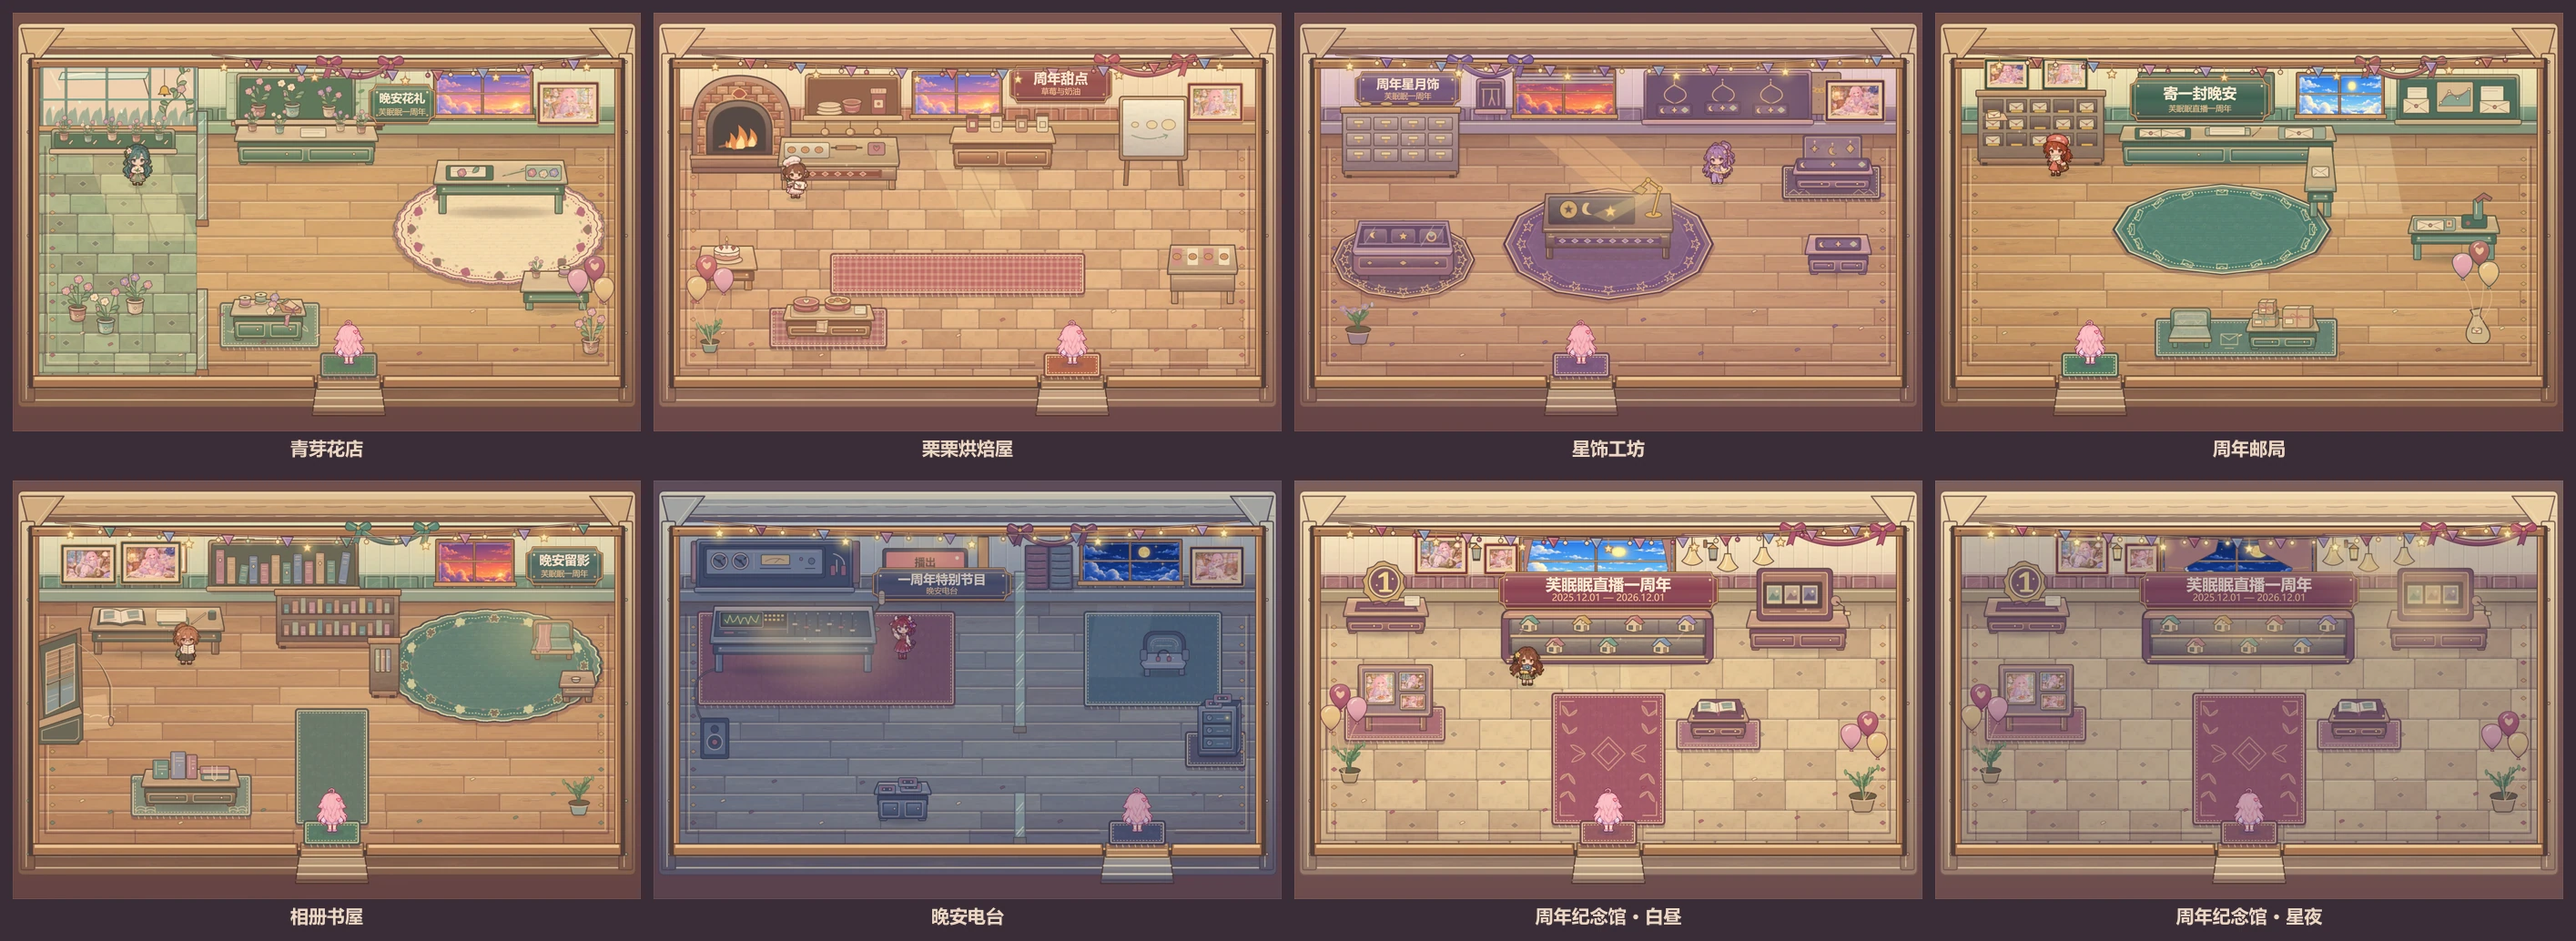
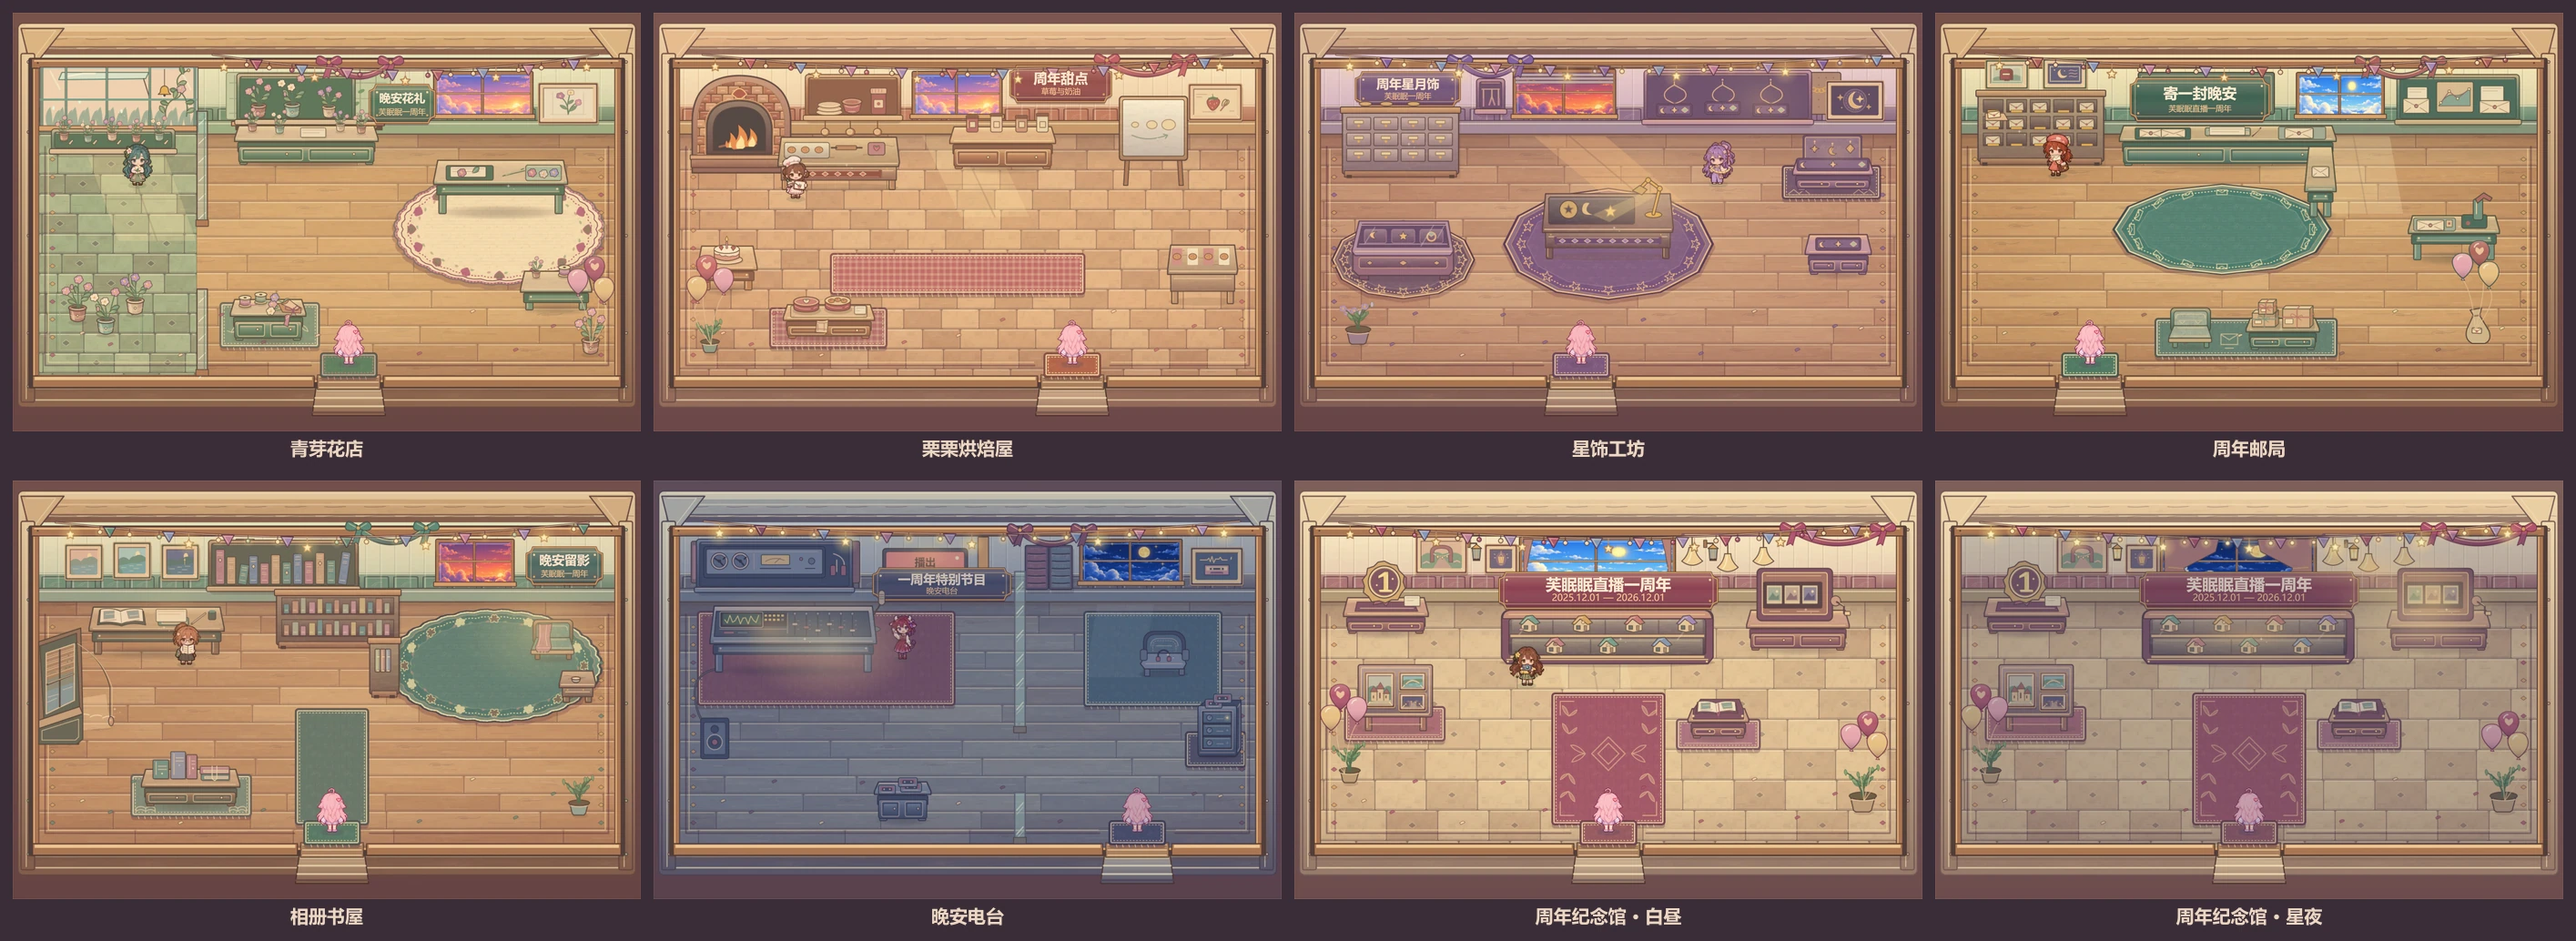
用主题插画替换小镇室内的相册照片

diff --git a/doc/artwork/ARTWORK-town-interiors.md b/doc/artwork/ARTWORK-town-interiors.md
@@ -2,7 +2,7 @@
 
 七间屋子全天开放。芙芙可以在花店借一片落花，在邮局给自己盖一枚月牙邮戳，也可以第一次上北坡就进纪念馆。做好的小物收进背包的 **纪念物 → 小镇小物**。纪念馆北墙的双层展柜会记下每件小物来自哪扇门。
 
-下图取自游戏画布。木纹与布纹取自晚安小屋的原画，陶砖和浅石板使用周年小镇铺石的笔触。房梁、家具的明暗面和黄昏点亮的星星灯串也沿用小屋的画法。花店的釉面花盆与压花台、烘焙屋的单层草莓蛋糕、工坊的成品柜和邮局的月牙火漆信，各自沿用房间配色。书屋把池景收进西墙窗格，电台以靛蓝和莓红绘制设备与坐具，纪念馆用同一套胡桃木色画影箱柜与双层展柜。墙上挂着芙眠眠的晨光、阅读、抱狐狸和弹贝斯相册画。
+下图取自游戏画布。木纹与布纹取自晚安小屋的原画，陶砖和浅石板使用周年小镇铺石的笔触。房梁、家具的明暗面和黄昏点亮的星星灯串也沿用小屋的画法。花店的釉面花盆与压花台、烘焙屋的单层草莓蛋糕、工坊的成品柜和邮局的月牙火漆信，各自沿用房间配色。书屋把池景收进西墙窗格，电台以靛蓝和莓红绘制设备与坐具，纪念馆用同一套胡桃木色画影箱柜与双层展柜。各屋的墙画依次画着洋桔梗、草莓配方、铜色星月、纪念邮票、池景、晚安磁带和周年花拱与街灯。
 
 [![游戏内七间室内的直播一周年庆典布置，含纪念馆的白昼和星夜。](town-interiors/interiors-in-game.webp)](town-interiors/interiors-in-game.webp)
 
@@ -134,13 +134,13 @@
 
 [![周年纪念馆黄昏草图，北墙双层展柜陈列七栋模型，中央是通道，东北角有手摇影箱。](town-interiors/hall.svg)](town-interiors/hall.svg)
 
-红瓦色展帘下挂着筹备时的速写。暖栗以摄影来宾的身份在这里选片、挂照片。正门所在位置落在现有建筑碰撞内，入口设在**馆东石阶上平台**。从北街沿石阶上去，在侧门牌前进馆，出馆回到同一级平台。
+红瓦色展帘下挂着周年花拱和街灯的插画。暖栗以摄影来宾的身份在这里整理街景展览。正门所在位置落在现有建筑碰撞内，入口设在**馆东石阶上平台**。从北街沿石阶上去，在侧门牌前进馆，出馆回到同一级平台。
 
-展厅两侧各留一处观看点。左边的相片架装裱晨光、阅读和贝斯相片，右边的小展台托着摊开的周年册。两处陈设之间的地毯直通七屋展柜。
+展厅两侧各留一处观看点。左边的街景展架装裱红瓦街口、临池石桥和灯下广场的插画，右边的小展台托着摊开的周年册。两处陈设之间的地毯直通七屋展柜。
 
 **① 手摇影箱 · 亮灯夜票根**　摇动手柄，依次看见空广场、挂上彩旗、街灯初亮三格速写。转完一圈，从箱侧取票根。把纪念馆作为第一站也能收下它。
 
-**② 七屋纪念展柜**　展柜贴北墙放置，门垫前的地毯通向柜前。上层从西往东依次是花店、烘焙屋、纪念馆和工坊，下层依次是邮局、相册书屋和电台。暖栗白昼站在展柜西侧选片。清晨展帘半开，白昼整扇高窗透光，黄昏先亮照片墙的灯，星夜再亮影箱内灯。模型窗口依据已收下的物品点亮，四个时段都可查看。
+**② 七屋纪念展柜**　展柜贴北墙放置，门垫前的地毯通向柜前。上层从西往东依次是花店、烘焙屋、纪念馆和工坊，下层依次是邮局、相册书屋和电台。暖栗白昼站在展柜西侧选画。清晨展帘半开，白昼整扇高窗透光，黄昏先亮展墙的灯，星夜再亮影箱内灯。模型窗口依据已收下的物品点亮，四个时段都可查看。
 
 | 展柜样稿 | 可见内容 |
 | --- | --- |
@@ -150,8 +150,8 @@
 
 | 与暖栗交谈 | 台词 |
 | --- | --- |
-| 白昼开场 | “芙芙，帮我选张照片挂上去吧。这两张就差半步，右边那张能看见你裙角从街口拐过去。” |
-| 黄昏开场 | “等一下，照片还歪一点……好了！快站我这边看，纸上的路灯和窗外那盏刚好接在一起。” |
+| 白昼开场 | “芙芙，帮我选一幅街景摆在前面吧。你想先看红瓦街口，还是池边这座石桥？” |
+| 黄昏开场 | “等一下，画框还歪一点……好了！快站我这边看，纸上的路灯和窗外那盏刚好接在一起。” |
 | 熟客话题一 | “我以前拍广场，总等大家都走开。刚才翻底片才发现，最舍不得收起来的那张里，每个人都在忙自己的事。” |
 | 熟客话题二 | “这回你来当摄影师。你要是数到三，我一定会眨眼。要不咱们数到二就拍？” |
 
@@ -165,7 +165,7 @@
 | 红笺 | 街上送信 | 局内分信 | 街上收信 | 局内封晚邮 |
 | 墨桃 | 书屋外 | 休息 | 装帧桌边 | 阅读角夜读 |
 | 夜神华 | 电台收播 | 休息 | 街上听溪声 | 电台播音 |
-| 暖栗 | 街上晨拍 | 馆内选片 | 馆内挂照片 | 街上夜拍 |
+| 暖栗 | 街上晨拍 | 馆内选画 | 馆内布展 | 街上夜拍 |
 
 门牌写出当前去向，例如白昼在花店门口能读到“青芽在东边花阶”，黄昏则是“青芽在压花台”。玩家在场时，换班的居民先走到门槛再跨场景，人物、交谈提示和脚底碰撞随人一起交接。正在聊天时保留人物和这一段对白，收起或走远后再换班。已在别处推进时间，进门时便采用当前班次。
 
@@ -197,7 +197,7 @@
 
 庆典版把 600 × 400 逻辑场景按 1200 × 800 导出，家具也按两倍分辨率绘制。光照渐变沿用较小的图层，降低切换地图时的加载量。周年题牌由游戏画布按屏幕分辨率绘字，纪念馆的日期取自游戏邀请函。 [庆典陈设图集](town-interiors/celebration-atlas.webp)
 
-相册画从游戏相册取用，由设计稿的构建器装裱进各屋。早期庆典陈设试样的提示词保存在下方。
+墙画和街景展架的插画绘在各屋的 SVG 草图中，并随墙面和家具一同生成实机贴图。早期庆典陈设试样的提示词保存在下方。
 
 <details>
 <summary>庆典陈设图集生成提示词</summary>
